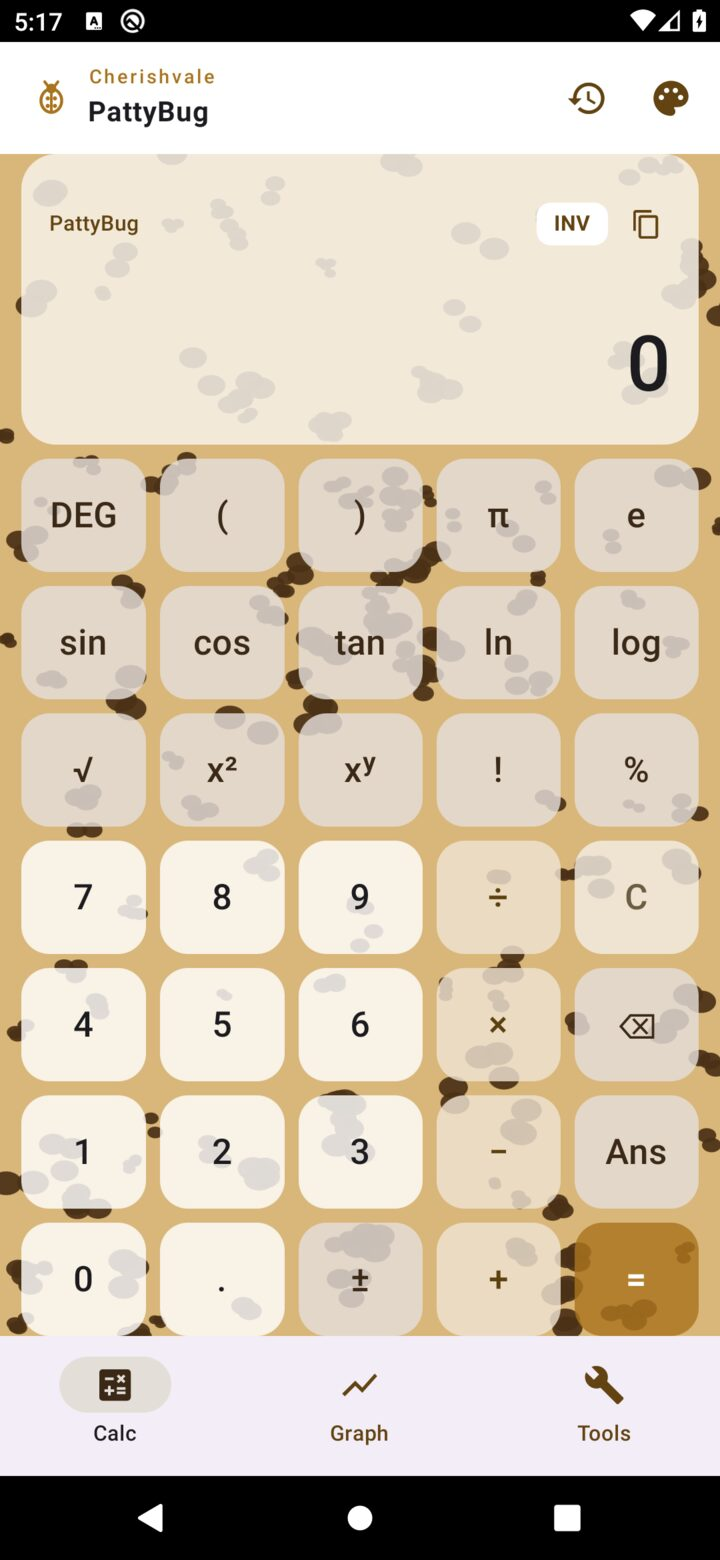
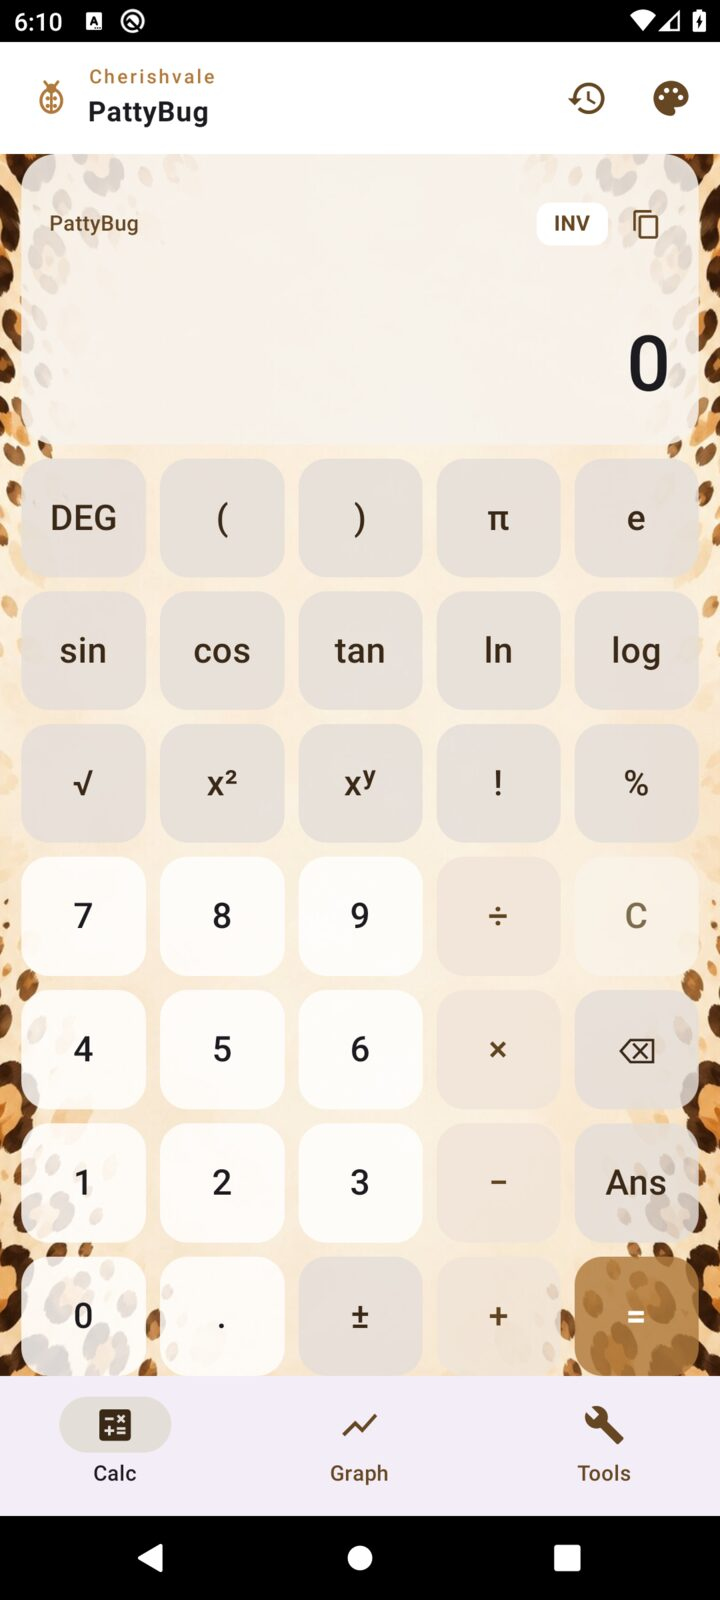
pattybug: 15 skins incl. cheetah print, Christmas, New Year, Father's Day, St. Patrick's, Easter; scrollable picker; phone-frame web demo

diff --git a/pattybug.html b/pattybug.html
@@ -39,7 +39,7 @@
     <span class="badge">Works offline</span>
     <span class="badge">Scientific</span>
     <span class="badge">Graphing</span>
-    <span class="badge">10 themes</span>
+    <span class="badge">15 themes</span>
   </div>
   <p style="margin-top:22px">
     <span class="badge" style="border-color:var(--line-strong);color:var(--teal)">In development · Android</span>
@@ -138,19 +138,29 @@
   </div>
 
   <h2>Themes</h2>
-  <p class="lead">Ten skins are built in, so the app can change with the season — or stay
-     plain for anyone who would rather it had no theme at all. Most of them paint an
-     original watercolour frame around the keypad: ladybugs and blossoms, jack-o'-lanterns
-     and bats, roses and hearts, fireworks and stars, kittens and yarn, puppies and bones.
-     Every one has a light and a dark version, and all of the artwork ships inside the app —
+  <p class="lead">Fifteen skins are built in — one for almost every season — or stay plain
+     for anyone who would rather have no theme at all. Each paints an original watercolour
+     frame around the keypad: ladybugs and blossoms, jack-o'-lanterns and bats, roses and
+     hearts, fireworks and stars, kittens and yarn, puppies and bones, a real cheetah print,
+     Christmas greenery, New Year fireworks, St. Patrick's shamrocks, Easter bunnies. Every
+     one has a light and a dark version, and all of the artwork ships inside the app —
      nothing is loaded from the internet.</p>
   <div class="shots">
-    <img src="assets/pattybug/ladybug.jpg" alt="Ladybug theme with cartoon ladybugs">
-    <img src="assets/pattybug/valentine.jpg" alt="Valentine's Day theme with hearts">
-    <img src="assets/pattybug/pink.jpg" alt="Pink theme with sparkles">
-    <img src="assets/pattybug/puppies.jpg" alt="Puppies theme with American Eskimo dog faces and paw prints">
-    <img src="assets/pattybug/independence.jpg" alt="Independence Day theme with gold stars">
-    <img src="assets/pattybug/mothers.jpg" alt="Mother's Day theme with blossoms">
+    <img src="assets/pattybug/ladybug.jpg" alt="Ladybug theme">
+    <img src="assets/pattybug/pink.jpg" alt="Pink theme">
+    <img src="assets/pattybug/halloween.jpg" alt="Halloween theme">
+    <img src="assets/pattybug/valentine.jpg" alt="Valentine's Day theme">
+    <img src="assets/pattybug/independence.jpg" alt="Independence Day theme">
+    <img src="assets/pattybug/mothers.jpg" alt="Mother's Day theme">
+    <img src="assets/pattybug/kittens.jpg" alt="Kittens theme">
+    <img src="assets/pattybug/puppies.jpg" alt="Puppies theme">
+    <img src="assets/pattybug/cheetah.jpg" alt="Cheetah print theme">
+    <img src="assets/pattybug/christmas.jpg" alt="Christmas theme">
+    <img src="assets/pattybug/newyears.jpg" alt="New Year's theme">
+    <img src="assets/pattybug/fathers.jpg" alt="Father's Day theme">
+    <img src="assets/pattybug/patrick.jpg" alt="St. Patrick's Day theme">
+    <img src="assets/pattybug/easter.jpg" alt="Easter theme">
+    <img src="assets/pattybug/plain.jpg" alt="Plain theme">
   </div>
   <ul class="plain">
     <li><b>Ladybug</b> — ladybirds among leaves and blossoms</li>
@@ -161,7 +171,12 @@
     <li><b>Mother's Day</b> — peonies and blossoms in pink and lavender</li>
     <li><b>Kittens</b> — kittens, yarn and paw prints</li>
     <li><b>Puppies</b> — puppies, bones and paw prints</li>
-    <li><b>Cheetah</b> — a full tan-and-brown cheetah-print skin</li>
+    <li><b>Cheetah</b> — a tan-and-brown cheetah print</li>
+    <li><b>Christmas</b> — poinsettias, pine and fairy lights</li>
+    <li><b>New Year's</b> — fireworks and streamers on midnight blue</li>
+    <li><b>Father's Day</b> — denim, leather and silver stars</li>
+    <li><b>St. Patrick's Day</b> — shamrocks, gold coins and Celtic knots</li>
+    <li><b>Easter</b> — bunnies, eggs and spring tulips</li>
     <li><b>Plain</b> — a clean, neutral theme with no decoration</li>
   </ul>
 

diff --git a/pattybug-live/theme.js b/pattybug-live/theme.js
@@ -9,7 +9,12 @@ export const SKINS = [
   { key: "mothers", label: "Mother's Day", primary: "#D4869C", secondary: "#8E6BAE", tertiary: "#D9A441", motif: "flowers", image: IMG("skin_mothers") },
   { key: "cats", label: "Kittens", primary: "#9C7BD6", secondary: "#6D5A9C", tertiary: "#5B8DEF", motif: "cats", image: IMG("skin_cats") },
   { key: "puppies", label: "Puppies", primary: "#4F8FEF", secondary: "#7E8FA8", tertiary: "#7EC8E3", motif: "dogs", image: IMG("skin_puppies") },
-  { key: "cheetah", label: "Cheetah", primary: "#A9741E", secondary: "#6B4A2B", tertiary: "#C2A878", motif: "cheetah", image: null },
+  { key: "cheetah", label: "Cheetah", primary: "#B07A3C", secondary: "#6B4A2B", tertiary: "#E3C48D", motif: "cheetah", image: IMG("skin_cheetah") },
+  { key: "christmas", label: "Christmas", primary: "#C0392B", secondary: "#1F5C3A", tertiary: "#C9A227", motif: "none", image: IMG("skin_christmas") },
+  { key: "newyears", label: "New Year's", primary: "#C9A227", secondary: "#1B2A5B", tertiary: "#E8C766", motif: "none", image: IMG("skin_newyear") },
+  { key: "fathers", label: "Father's Day", primary: "#33506E", secondary: "#6E4A2A", tertiary: "#C9A227", motif: "none", image: IMG("skin_fathers") },
+  { key: "patrick", label: "St. Patrick's Day", primary: "#2E8B57", secondary: "#1F6B3A", tertiary: "#D4AF37", motif: "none", image: IMG("skin_patrick") },
+  { key: "easter", label: "Easter", primary: "#E8A0BF", secondary: "#A78BC7", tertiary: "#8FCB9B", motif: "none", image: IMG("skin_easter") },
   { key: "plain", label: "Plain", primary: "#4C6FFF", secondary: "#5B6472", tertiary: "#2FA3A9", motif: "none", image: null },
 ];
 

diff --git a/pattybug-live/styles.css b/pattybug-live/styles.css
@@ -15,16 +15,52 @@ body {
   min-height: 100dvh;
   display: flex;
   flex-direction: column;
+}
+
+.device {
   position: relative;
+  display: flex;
+  flex-direction: column;
+  flex: 1;
+  min-height: 100dvh;
+  overflow: hidden;
+}
+
+.device > :not(#bg) {
+  position: relative;
+  z-index: 1;
 }
 
 #bg {
-  position: fixed;
+  position: absolute;
   inset: 0;
   width: 100%;
   height: 100%;
-  z-index: -1;
+  z-index: 0;
   pointer-events: none;
+}
+
+@media (min-width: 780px) {
+  body {
+    background: #0e1116;
+    display: grid;
+    place-items: center;
+    padding: 22px;
+    min-height: 100dvh;
+  }
+  .device {
+    flex: none;
+    width: 470px;
+    height: min(920px, calc(100dvh - 44px));
+    min-height: 0;
+    border-radius: 34px;
+    border: 1px solid #2a2f36;
+    box-shadow: 0 30px 90px rgba(0, 0, 0, 0.55);
+    background: #000;
+  }
+  .device main {
+    overflow-y: auto;
+  }
 }
 
 .topbar {

diff --git a/pattybug-live/app.js b/pattybug-live/app.js
@@ -277,17 +277,10 @@ function drawCoverImage(canvas, src, background) {
     imageCache.set(src, img);
   }
   if (!img.complete || !img.naturalWidth) return;
-  if (W > H) {
-    const h = H;
-    const w = (img.width / img.height) * h;
-    const start = (W % w) / 2 - w;
-    for (let x = start; x < W; x += w) ctx.drawImage(img, x, 0, w, h);
-  } else {
-    const scale = Math.max(W / img.width, H / img.height);
-    const w = img.width * scale;
-    const h = img.height * scale;
-    ctx.drawImage(img, (W - w) / 2, (H - h) / 2, w, h);
-  }
+  const scale = Math.max(W / img.width, H / img.height);
+  const sw = img.width * scale;
+  const sh = img.height * scale;
+  ctx.drawImage(img, (W - sw) / 2, (H - sh) / 2, sw, sh);
 }
 
 function drawBg() {

diff --git a/pattybug-live/index.html b/pattybug-live/index.html
@@ -10,6 +10,7 @@
 <link rel="stylesheet" href="/pattybug-live/styles.css">
 </head>
 <body>
+<div class="device">
 <canvas id="bg" aria-hidden="true"></canvas>
 <header class="topbar">
   <a class="back" href="/pattybug">← PattyBug</a>
@@ -80,6 +81,7 @@
 </main>
 
 <footer class="byline">PattyBug — live demo · by Cherishvale</footer>
+</div>
 
 <div id="history" hidden>
   <div class="history-sheet">
